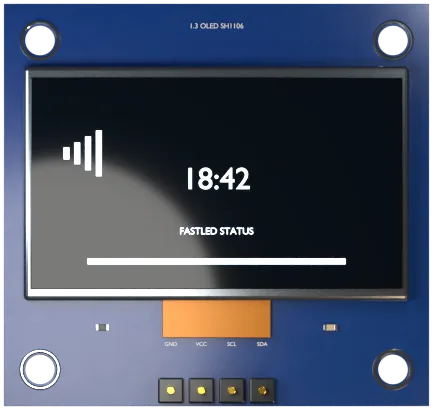
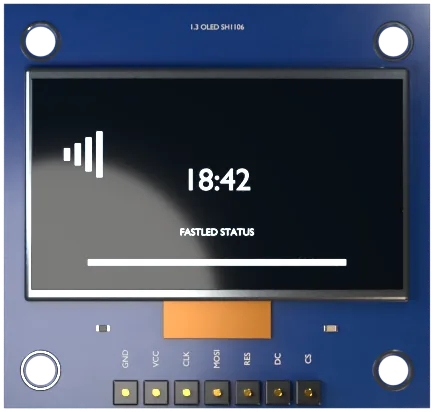
fix(hardware): re-import the SH1106 as the 7-pin SPI module
The module on the bench is the 7-pin four-wire SPI variant, not the 4-pin
I2C one the asset first described. Its pin labels are the wiring contract
the Build Diagram draws from, so GND/VCC/CLK/MOSI/RES/DC/CS had to replace
GND/VCC/SCL/SDA before anything is wired against it.

Leaves the module unmodified rather than converting it to I2C. The
conversion is three separate jumper operations on a board whose silkscreen
varies by revision, and it would trade real rework risk for a slower bus —
on a display whose acceptance gate is that it must not stall LED
rendering.

The two OLEDs now arrive on different transports, which is coverage rather
than a complication: SPI exercises CLK/MOSI sharing with the SD card and
its own chip select, I2C exercises SDA/SCL sharing with the RTC. The 1-bit
surface contract is therefore defined independently of the bus.

The importer now normalises the "displays" category the modelling pipeline
emits instead of it being corrected per manifest, where a re-export
silently reintroduced it.

diff --git a/scripts/import-part-assets.py b/scripts/import-part-assets.py
@@ -46,6 +46,14 @@ CATEGORIES = {
     "input-control", "audio-source", "support", "display",
 }
 
+# Spellings the modelling pipeline emits that mean an existing category. The
+# app's categories are singular ("microphone", "amplifier"), and normalising
+# here rather than editing each manifest keeps a re-export from quietly
+# reintroducing a category the app does not know.
+CATEGORY_ALIASES = {
+    "displays": "display",
+}
+
 
 def convert_render(part_id: str, part_dir: Path, render: dict) -> dict | None:
     """PNG -> WebP under public/parts. Returns the app-facing render record."""
@@ -96,7 +104,7 @@ def read_part(part_dir: Path) -> dict | None:
         print(f"  ! {part_id}: no usable dimensionsMm — skipped", file=sys.stderr)
         return None
 
-    category = data.get("category")
+    category = CATEGORY_ALIASES.get(data.get("category"), data.get("category"))
     if category not in CATEGORIES:
         print(f"  ! {part_id}: unknown category {category!r}", file=sys.stderr)
 

diff --git a/display-todo.md b/display-todo.md
@@ -67,6 +67,11 @@ device passes on hardware — which is why the OLED family leads with the SH1106
 rather than the more commonly cited SSD1306: a contract meant to be proven on
 hardware should be built against the hardware that exists.
 
+The SH1106 on the bench is the 7-pin SPI variant rather than the 4-pin I²C
+one, so the two OLEDs will arrive on different transports. That is deliberate
+coverage rather than an inconvenience, and it is why the surface contract is
+defined independently of the bus.
+
 Two rows changed after the modules were ordered. The 2.4-inch touch TFT is an
 ST7789V rather than an ILI9341, so one ST7789 driver now covers both it and the
 1.3-inch 240×240 module, and ILI9341 reaches the bench only inside the CYD
@@ -78,7 +83,7 @@ before building against it.
 | --- | --- | --- | --- | --- |
 | 1 | TM1637 4-digit 7-segment module, colon variant | `SegmentDisplay` | CLK + DIO | BPM, clock, countdown, score, active-pattern number, debug value |
 | 2 | MAX7219 8-digit 7-segment module | `SegmentDisplay` | SPI-like CLK/DIN/CS | Longer counters, elapsed/duration display, channel/value monitor |
-| 3 | SH1106 128×64 I²C OLED (1.3-inch) | `InfoDisplay` | I²C | Song title and progress, clock/date, current pattern, sensor/status readout. Leads the OLED slice because it is the device on the bench |
+| 3 | SH1106 128×64 SPI OLED (1.3-inch, 7-pin) | `InfoDisplay` | 4-wire SPI: CLK/MOSI shared, CS/DC/RES exclusive | Song title and progress, clock/date, current pattern, sensor/status readout. Leads the OLED slice because it is the device on the bench |
 | 4 | SSD1306 128×64 I²C OLED (0.96-inch) | `InfoDisplay` | I²C | Same layouts through the same 1-bit surface contract, once the module arrives |
 | 5 | ST7789 240×240 SPI TFT, no touch | `TransportDisplay` | SPI | Colour now-playing screen, album/pattern art, status dashboard, fixed gauges |
 | 6 | ST7789V 2.4-inch 320×240 SPI TFT + XPT2046 touch + microSD | `TransportDisplay`, then `Display` | Shared SPI with separate CS lines | Fixed play/pause/previous/next/volume UI; reference target for the custom UI builder |
@@ -303,11 +308,16 @@ widgets, hover state, or physical pins.
 
 ### Phase 4 — `InfoDisplay` and pattern browser
 
-- [ ] Implement SH1106 128×64 I²C first, then SSD1306 through the same 1-bit
+- [ ] Implement SH1106 128×64 first, then SSD1306 through the same 1-bit
   surface contract. The SH1106 carries 132×64 of controller RAM behind a
   128×64 panel, so its 2-column offset belongs in the contract rather than
   being fixed up per device — driving one as the other shifts the image two
   pixels and wraps rubbish down the edge, which reads as a wiring fault.
+- [ ] Keep the transport separate from the surface contract. The module on the
+  bench is a 7-pin SPI SH1106 and the SSD1306 to come is 4-pin I²C, so the
+  1-bit layout, offset and page addressing must not assume either bus. This is
+  coverage rather than a complication: SPI exercises CLK/MOSI sharing with the
+  SD card and its own CS, and I²C exercises SDA/SCL sharing with the RTC.
 - [ ] Reuse the bitmap glyph data in `src/state/font.ts` for text rasterisation
   so browser and firmware layouts share glyphs, alignment, spacing, truncation,
   and unsupported-character behaviour.
